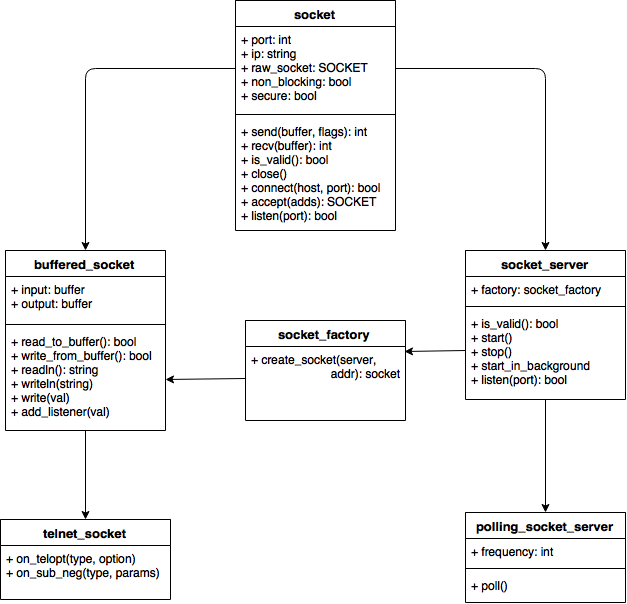
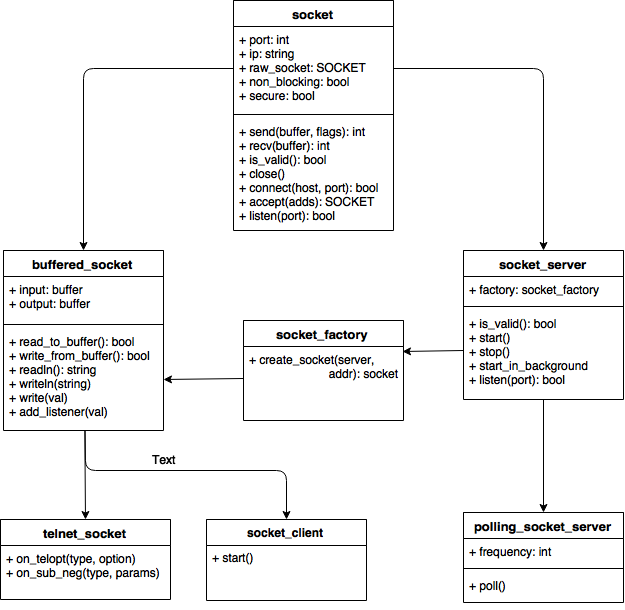
update readme

diff --git a/tests/http_client.test.cpp b/tests/http_client.test.cpp
@@ -103,10 +103,9 @@ go_bandit([]() {
         it("can get", [&]() {
             http_client client("localhost:9876/test");
 
-            client.get();
-
-            Assert::That(client.response().payload(), Equals("GET: Hello, World!"));
-
+            client.get([](const http_response &response) {
+                Assert::That(response.payload(), Equals("GET: Hello, World!"));
+            });
         });
 #if defined(HAVE_LIBSSL)
         it("is secure", []() {

diff --git a/src/http_client.h b/src/http_client.h
@@ -84,7 +84,7 @@ namespace arg3
         class http_client : public http_transfer
         {
            public:
-            typedef std::function<void(const http_client &client, const http_response &)> http_client_callback;
+            typedef std::function<void(const http_response &)> http_client_callback;
 
             http_client(const arg3::net::uri &uri);
             http_client(const std::string &uri);

diff --git a/src/http_client.cpp b/src/http_client.cpp
@@ -535,7 +535,7 @@ namespace arg3
 #endif
 
             if (callback) {
-                callback(*this, response());
+                callback(response());
             }
             return *this;
         }

diff --git a/README.md b/README.md
@@ -34,25 +34,18 @@ Model
 
 ![arg3net UML](arg3net.png)
 
-Usage
-=====
 
-There are two ways to implement a server.
+A **buffered_socket** adds i/o buffering to a socket.
 
-#### Method A
-1) subclass a socket and implement callback to perform an action on input/output
+A **socket_client** adds the ability to run an blocking i/o in a thread.
 
-2) subclass a socket_factory to create the new socket type
+A **socket_listener** can be attached to a buffered_socket for i/o events.
 
-3) start a server with the factory
+There are two ways to implement a server - you can either subclass a **socket**, **socket_client** or a **socket_listener**.
 
-#### Method B
+A **socket_factory** implementation should return the new socket or add the listener to a socket.
 
-1) subclass a socket listener to perform an action on input/output
-
-2) subclass a socket_factory to add the listener to a socket
-
-3) start a server with the factory
+A **socket_server** is then created with the factory
 
 Examples
 ========
@@ -68,9 +61,10 @@ class example_factory : public arg3::net:socket_factory, public arg3::net::buffe
 {
 public:
     /* creates a client on a new connection and adds a listener */
-    socket_factory::socket_type create_socket(const socket_factory::server_type &server, 
+    socket_factory::socket_type create_socket(const socket_factory::server_type &server,
                                               SOCKET sock, const sockaddr_in &addr) {
-      	if (server->is_non_blocking()) {
+        // If we're using this factory with a non-blocking server don't use an asynchronous socket                                        
+        if (server->is_non_blocking()) {
             auto sock = std::make_shared<buffered_socket>(sock, addr);
 
             sock->add_listener(shared_from_this());
@@ -78,11 +72,12 @@ public:
             return sock;
         }
 
+        // otherwise use the default asynchronous client
         auto client = std::make_shared<socket_client>(sock, addr);
 
         client->add_listener(shared_from_this());
 
-        // start the read/write loop
+        // start the asynch read/write loop
         client->start();
 
         return client;
@@ -147,27 +142,30 @@ int main() {
 Other
 =====
 
-**http_client** is a very basic implementation of a HTTP/Rest client:
+**http_client** is a very basic implementation of a HTTP client:
 
 ```c++
 
-http_client api("api.somehost.com");
+http_client client("api.somehost.com/version/resource/id");
 
 // get some resource
-api.get("version/resource/id");
+client.get([](const http_response &response) {
+     cout << response.code() << ": " << response << endl;
+});
+```
 
-auto response = api.response();
+```c++
+
+http_client client("https://api.somehost.com/version/resource/id");
+
+auto response = client.get().response();
 
 cout << response.code() << ": " << response << endl;
 
-// post some resource
-api.post("version/resource")
-
-// etc
 ```
 
 TODO
 ====
 
-* more socket rfc implementations (HTTP, SMTP, WebSockets)
+* more socket RFC implementations (SMTP, WebSockets)
 * more testing
